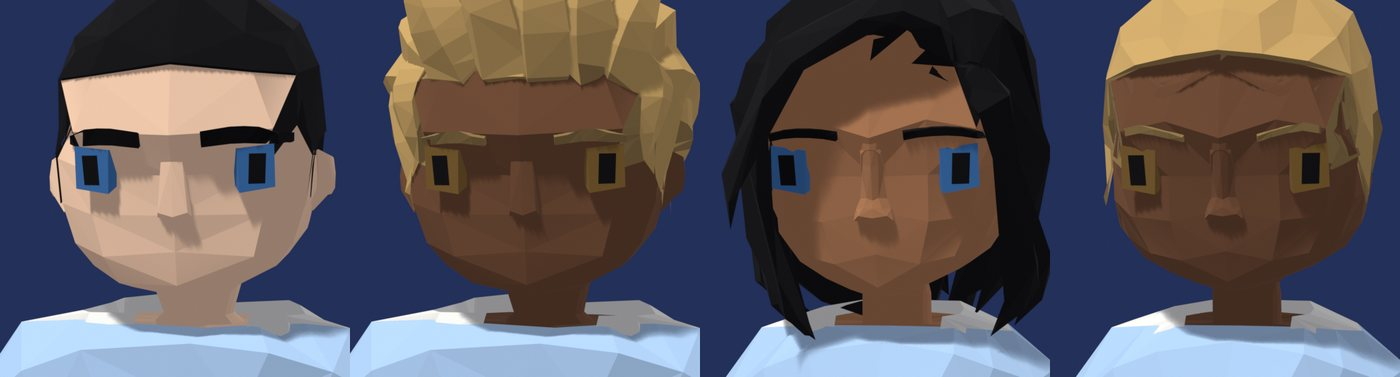
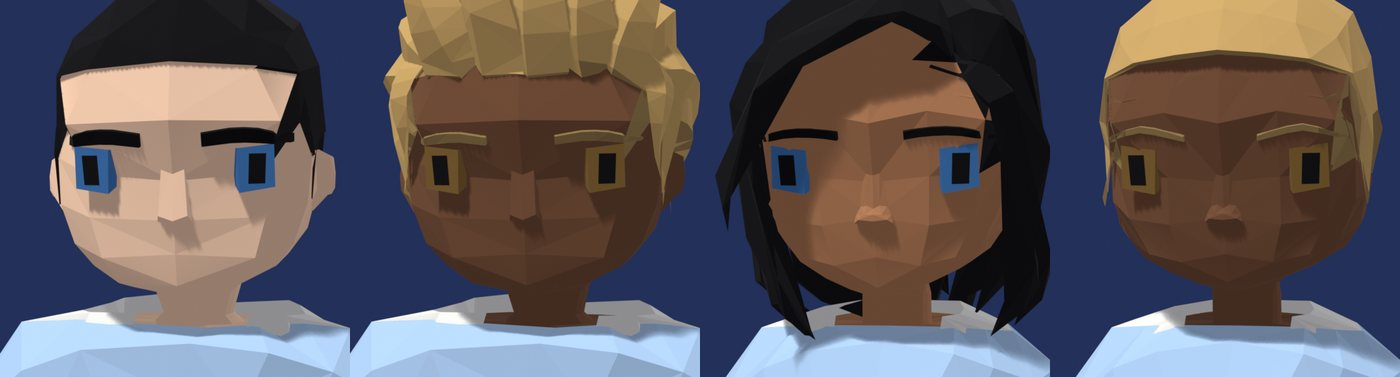
Student characters: smooth foreheads, soft child nose bridge, no fringe flecks
Replaced the door, close-up, face and hair sheets after removing the kit
woman's hidden forehead fold, softening the child and young-teen bridge and
keeping door-visible scalp skin-coloured; dated the previous entry to the
day it was pushed.

diff --git a/student-characters/index.html b/student-characters/index.html
@@ -158,7 +158,7 @@ section { display: grid; gap: 20px; }
         Every render is from the build scripts in <code>ArtSource/Characters/Students/</code>.</p>
     </div>
     <div class="stats">
-      <div class="stat"><span class="big">1,902–2,980</span><span>triangles per dressed student, every combination (ceiling 3,000)</span></div>
+      <div class="stat"><span class="big">1,937–2,990</span><span>triangles per dressed student, every combination (ceiling 3,000)</span></div>
       <div class="stat"><span class="big">1</span><span>material per student: a palette texture</span></div>
       <div class="stat"><span class="big">24</span><span>bones: the kit skeleton without its 38 finger bones</span></div>
       <div class="stat"><span class="big">15/15</span><span>automated checks passing</span></div>
@@ -209,7 +209,7 @@ section { display: grid; gap: 20px; }
 <figure><img src="img/new/faces-adult.jpg" alt="Adult, 19+ faces" loading="lazy"><figcaption><b>Adult, 19+.</b> Men: Classic, Broad, Long, Round. Women: Classic, Heart, Square, Round.</figcaption></figure>
     </div>
     <div class="sub"><h3>Hair: the kit’s locks, kept</h3><p class="muted">Each pair is the proctor’s kit hair on the kit face (left) beside the student version (right), at three-quarter and from the classroom camera’s angle above. The student hair is the kit’s own locks with every face that cannot be seen from any direction removed, coplanar faces merged only as far as the budget needs, and a back side added only where a lock’s inside shows.</p>
-<figure><img src="img/new/hair-compare.jpg" alt="Kit hair beside student hair" loading="lazy"><figcaption>Men top row, women bottom row: kit then student, each at three-quarter and from above. Triangles kit → student: short 1500 → 861; cropped 140 → 264; swept 1404 → 851; spiky 1400 → 867; shaggy 1188 → 692; bob 1500 → 575; long 1500 → 639; bun 246 → 376; tied-back 1146 → 606; pixie 1399 → 577.</figcaption></figure>
+<figure><img src="img/new/hair-compare.jpg" alt="Kit hair beside student hair" loading="lazy"><figcaption>Men top row, women bottom row: kit then student, each at three-quarter and from above. Triangles kit → student: short 1500 → 868; cropped 140 → 298; swept 1404 → 850; spiky 1400 → 882; shaggy 1188 → 719; bob 1500 → 550; long 1500 → 652; bun 246 → 376; tied-back 1146 → 576; pixie 1399 → 564.</figcaption></figure>
     </div>
     <div class="sub"><h3>Hairstyles</h3><p class="muted">Five per sex, the same styles in every band, reshaped with the head: men short, cropped, swept, spiky, shaggy; women bob, long, bun, tied back, pixie. Three-quarter front and back.</p>
 <figure><img src="img/new/hair-child.jpg" alt="Child, 7–10 hairstyles" loading="lazy"><figcaption><b>Child, 7–10.</b></figcaption></figure>
@@ -233,8 +233,8 @@ section { display: grid; gap: 20px; }
     <div class="sub"><h3>Seated at the shared desk</h3><p class="muted">One man and one woman per band. Small bodies sit on the same 0.475 m seat and reach up to the same desk. Young teens and older plant their feet flat on the floor; children’s feet hang just above it, relaxed. Desk contact animation is phase 2.</p>
 <figure><img src="img/new/seated.jpg" alt="Seated students per band" loading="lazy"><figcaption>Top: child, young teen, older teen, adult (men and women alternating).</figcaption></figure>
     </div>
-    <div class="sub"><h3>Triangles per student</h3><div class="posetable"><div><span>band</span><span>min–max</span><span>notes</span></div><div><span class="p">Child, 7–10, men</span><span class="c">2,048–2,886</span><span class="d">80 combinations; heaviest: face_m_01, spiky hair, uniform white trousers, glasses</span></div><div><span class="p">Child, 7–10, women</span><span class="c">2,489–2,980</span><span class="d">160 combinations; heaviest: face_f_01, long hair, uniform white trousers, glasses</span></div><div><span class="p">Young teen, 11–14, men</span><span class="c">1,902–2,893</span><span class="d">240 combinations; heaviest: face_m_01, short hair, polo chinos, glasses</span></div><div><span class="p">Young teen, 11–14, women</span><span class="c">2,332–2,970</span><span class="d">240 combinations; heaviest: face_f_01, long hair, hoodie jeans, glasses</span></div><div><span class="p">Older teen, 15–18, men</span><span class="c">1,914–2,979</span><span class="d">480 combinations; heaviest: face_m_01, spiky hair, polo chinos, glasses, stubble</span></div><div><span class="p">Older teen, 15–18, women</span><span class="c">2,340–2,965</span><span class="d">240 combinations; heaviest: face_f_01, long hair, hoodie jeans, glasses</span></div><div><span class="p">Adult, 19+, men</span><span class="c">1,924–2,975</span><span class="d">960 combinations; heaviest: face_m_01, spiky hair, polo chinos, glasses, stubble</span></div><div><span class="p">Adult, 19+, women</span><span class="c">2,341–2,960</span><span class="d">240 combinations; heaviest: face_f_01, long hair, hoodie jeans, glasses</span></div></div>
-<p class="muted">Adult parts: face 448 (man) / 765 (woman, the kit's face with a closed skull), eyes 28, brows 80, hair 264–867, tops 346–534, arms 252–348, trousers 246, shoes 196, glasses 220, beard 72.</p></div>
+    <div class="sub"><h3>Triangles per student</h3><div class="posetable"><div><span>band</span><span>min–max</span><span>notes</span></div><div><span class="p">Child, 7–10, men</span><span class="c">2,058–2,898</span><span class="d">80 combinations; heaviest: face_m_01, spiky hair, uniform white trousers, glasses</span></div><div><span class="p">Child, 7–10, women</span><span class="c">2,373–2,872</span><span class="d">160 combinations; heaviest: face_f_01, long hair, uniform white trousers, glasses</span></div><div><span class="p">Young teen, 11–14, men</span><span class="c">1,937–2,901</span><span class="d">240 combinations; heaviest: face_m_01, spiky hair, polo chinos, glasses</span></div><div><span class="p">Young teen, 11–14, women</span><span class="c">2,228–2,855</span><span class="d">240 combinations; heaviest: face_f_01, long hair, hoodie jeans, glasses</span></div><div><span class="p">Older teen, 15–18, men</span><span class="c">1,958–2,983</span><span class="d">480 combinations; heaviest: face_m_01, short hair, polo chinos, glasses, stubble</span></div><div><span class="p">Older teen, 15–18, women</span><span class="c">2,233–2,852</span><span class="d">240 combinations; heaviest: face_f_01, long hair, hoodie jeans, glasses</span></div><div><span class="p">Adult, 19+, men</span><span class="c">1,958–2,990</span><span class="d">960 combinations; heaviest: face_m_01, spiky hair, polo chinos, glasses, stubble</span></div><div><span class="p">Adult, 19+, women</span><span class="c">2,209–2,841</span><span class="d">240 combinations; heaviest: face_f_01, long hair, hoodie jeans, glasses</span></div></div>
+<p class="muted">Adult parts: face 448 (man) / 633 (woman, the kit's face with a closed skull), eyes 28, brows 80, hair 298–882, tops 346–534, arms 252–348, trousers 246, shoes 196, glasses 220, beard 72.</p></div>
     <div class="sub"><h3>Checks</h3><p class="muted">Ported from the proctor pipeline and run on the exported files, in 12 poses from the game's student clips retargeted onto each band, and the three builds for adults.</p><div class="posetable"><div><span>check</span><span>result</span><span>what it asks</span></div><div><span class="p">budget</span><span class="c">pass</span><span class="d">every wearable combination at or under 3,000 triangles</span></div><div><span class="p">materials</span><span class="c">pass</span><span class="d">one material per part and per student; every face inside one palette cell</span></div><div><span class="p">skeleton</span><span class="c">pass</span><span class="d">the same 24-bone fingerless rig in every band and sex</span></div><div><span class="p">age rules</span><span class="c">pass</span><span class="d">no facial hair under 16 or on women, stubble only for 16–18, grey or white only for adults 45+, uniform for every child and nobody else, no make-up, no mohawks</span></div><div><span class="p">seams</span><span class="c">pass</span><span class="d">no cracks and no gaps between pieces of a part</span></div><div><span class="p">build shapes</span><span class="c">pass</span><span class="d">adult bodies, tops and trousers carry slim and heavy shapes; baked bands carry none</span></div><div><span class="p">waistbands</span><span class="c">pass</span><span class="d">every top hangs at least 15 mm over every trouser and skirt top, in every build</span></div><div><span class="p">mouths</span><span class="c">pass</span><span class="d">stubble and beard openings sit on the mouth and are mouth-sized</span></div><div><span class="p">glasses</span><span class="c">pass</span><span class="d">bridge resting on the nose (0–4 mm), frame clear of all four faces, arms outside the skin and resting over the ear</span></div><div><span class="p">feet</span><span class="c">pass</span><span class="d">shoes and leg skin never weighted across legs or torn in a pose</span></div><div><span class="p">openings</span><span class="c">pass</span><span class="d">neck and sleeve closures stay on the skin in the 12 poses</span></div><div><span class="p">poke</span><span class="c">pass</span><span class="d">arm skin never more than 1 mm outside a sleeve in the 12 poses</span></div><div><span class="p">see through</span><span class="c">pass</span><span class="d">no ray into a neckline, sleeve or hem finds only culled back faces, in 5 poses and 3 builds</span></div><div><span class="p">feet ground</span><span class="c">pass</span><span class="d">standing and idle: both soles within 5 mm of the floor and within 10° of flat; seated: planted feet flat (10°), children's hanging feet relaxed (25°)</span></div><div><span class="p">hair cover</span><span class="c">pass</span><span class="d">every hairstyle on every face of every band, rays from above, both sides, behind, the classroom camera and front-top: no skull, ear or scalp skin shows inside the hair</span></div></div></div>
     <div class="sub"><h3>How it is built</h3>
       <div class="traits">
@@ -251,14 +251,15 @@ section { display: grid; gap: 20px; }
           the proctor's build field for slim and heavy adults, glasses arms laid outside the skin, stable caps, collars
           with a real back side, sleeve hems weighted like the arm under them.</p></div>
         <div class="card"><h3>Feet on the floor</h3><p>The kit foot bone lies flat, but the game's clips were authored on a skeleton whose foot bone points 50° down at rest. Copying that direction tipped every student onto their toes, so the lowest point was a toe and the soles hung off the floor. The retarget now carries the clip's foot rotation relative to its own rest pose, and the foot hangs from the shin at the ankle, so a standing student stands on flat soles straight from the clip. Seated, teens and adults plant both feet flat; children's feet hang just above the floor, relaxed.</p></div>
-        <div class="card"><h3>Faces: brows, glasses, nose</h3><p>The child eye growth now spreads outwards from each eye's inner corner instead of from its centre, and the nose shrinks back into the face below the eye line. Before, the inner corners and the skin between them were pushed forward into a second bump above the nose. Brows are anchored at their inner ends, so a gap stays between them. The glasses lens top stays under the brows and the bridge rests on the nose 4 mm lower, so frame and brows no longer join into one bar.</p></div>
+        <div class="card"><h3>Faces: brows, glasses, nose</h3><p>The kit woman's face folds back under itself across the forehead; that hidden inner layer is removed, since its edges showed through as frown-like creases once the head was reshaped. The child eye growth spreads outwards from each eye's inner corner and fades out gently, so the forehead is moved rather than squeezed. Between the eyes the nose bridge is pushed back behind the eye line for children and young teens, so it sits low and soft with one small nose below. Brows keep a gap at the middle, the glasses lens top stays under the brows and the bridge rests on the nose. Scalp that would show below a fringe at the door stays skin-coloured.</p></div>
         <div class="card"><h3>Bands</h3><p>One deformation field per band for the head, then the band's proportions
           (height, head, neck, legs, hands, slimness) baked into its own rest pose; adults keep slim and heavy blend
           shapes.</p></div>
       </div>
     </div>
-    <div class="sub"><h3>Rough edges</h3><ul class="limits"><li><b>Hair is the kit's, hairline gaps included.</b> Where a lock's edge lies on the skin at the temples (pixie, tied back, long) a thin skin-coloured crack can show between locks at three-quarter view; nothing pokes through or above any style (the hair-cover check), and the forehead may show between fringe strands by design.</li><li><b>The budget is tight:</b> up to 2,980 triangles (a child girl with the long hair, the uniform and glasses) and 2,979 for an older-teen man with spiky hair, a polo, glasses and stubble.</li><li><b>IdleCalm's weight shift raises one heel 9–17° in the source clip itself.</b> Standing straight from the clip is flat (within 2.4°); the review renders level the idle feet with IK, which the game will need as foot IK or a corrected clip.</li><li><b>The beard is a front patch.</b> At three-quarter view skin shows between the beard and the hair along the jaw.</li><li><b>Mitten hands are simple.</b> A flat paddle with a thumb, fine from the game camera, plain at the door.</li><li><b>Glasses are octagonal and the arms stand off wide child heads.</b> Every glasses check passes, but the frame shape is basic.</li><li><b>Skirts stretch between the legs when walking</b> (edges up to 6–9 times their length). Standing and seated are fine; a skirt solution belongs with animation in phase 2.</li><li><b>Seated renders place the hands on the desk and the feet on the floor by IK</b>; phase 2 replaces that with real desk-contact clips. Children's feet hang 10–15 cm above the floor from the 0.475 m seat.</li><li><b>Each band has its own rig</b> with different bone lengths; clips must play as rotations (with the hips height scaled), which is phase 2's job.</li></ul></div>
+    <div class="sub"><h3>Rough edges</h3><ul class="limits"><li><b>Hair is the kit's, hairline gaps included.</b> Where a lock's edge lies on the skin at the temples (pixie, tied back, long) a thin skin-coloured crack can show between locks at three-quarter view; nothing pokes through or above any style (the hair-cover check), and the forehead may show between fringe strands by design.</li><li><b>The budget is tight for men:</b> up to 2,990 triangles (an adult man with spiky hair, a polo, glasses and stubble); women reach 2,872.</li><li><b>IdleCalm's weight shift raises one heel 9–17° in the source clip itself.</b> Standing straight from the clip is flat (within 2.4°); the review renders level the idle feet with IK, which the game will need as foot IK or a corrected clip.</li><li><b>The beard is a front patch.</b> At three-quarter view skin shows between the beard and the hair along the jaw.</li><li><b>Mitten hands are simple.</b> A flat paddle with a thumb, fine from the game camera, plain at the door.</li><li><b>Glasses are octagonal and the arms stand off wide child heads.</b> Every glasses check passes, but the frame shape is basic.</li><li><b>Skirts stretch between the legs when walking</b> (edges up to 6–9 times their length). Standing and seated are fine; a skirt solution belongs with animation in phase 2.</li><li><b>Seated renders place the hands on the desk and the feet on the floor by IK</b>; phase 2 replaces that with real desk-contact clips. Children's feet hang 10–15 cm above the floor from the 0.475 m seat.</li><li><b>Each band has its own rig</b> with different bone lengths; clips must play as rotations (with the hips height scaled), which is phase 2's job.</li></ul></div>
   </section>
+
 
 
 
